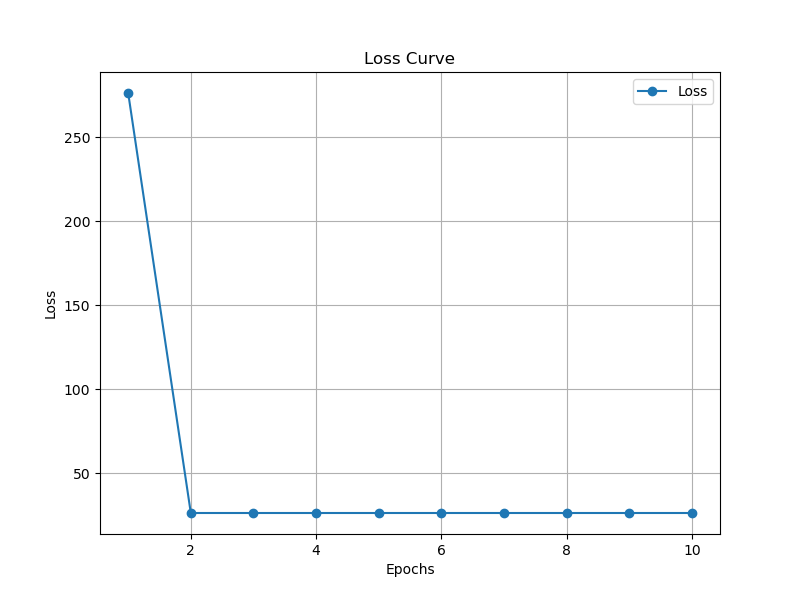
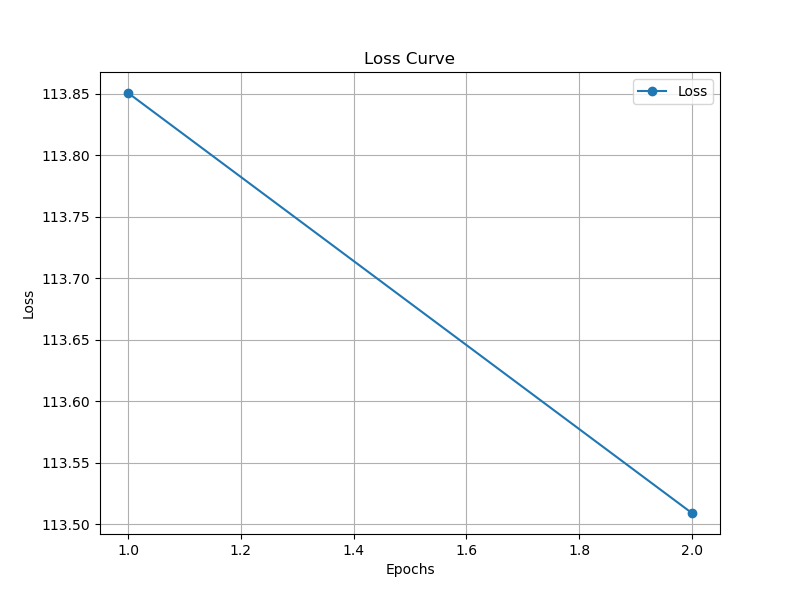
Added loss curve and confusion matrix for MNIST dataset.

diff --git a/MNIST.py b/MNIST.py
@@ -8,10 +8,10 @@ import torch.nn.functional as F
 from torchvision import datasets
 import torchvision.transforms as transforms
 import torchvision
-
-
 from CNN import LeNet5
-from utils import cross_entropy_loss, one_hot_y, compute_accuracy, softmax
+from utils import cross_entropy_loss, one_hot_y, compute_accuracy, softmax, plot_loss_curve
+from sklearn.metrics import confusion_matrix
+import seaborn as sns
 
 
 transform = transforms.Compose([transforms.ToTensor()])
@@ -45,16 +45,12 @@ train_labels_numpy = train_labels_tensor.numpy()
 test_images_numpy = test_images_tensor.numpy()
 test_labels_numpy = test_labels_tensor.numpy()
 
-test_images_numpy = test_images_numpy[:50]
-test_labels_numpy = test_labels_numpy[:50]
 
-train_images_numpy = train_images_numpy[:500]
-train_labels_numpy = train_labels_numpy[:500]
-
-epochs = 2
+epochs = 10
 model = LeNet5(in_channel=1, lr=1e-1)
 
-batch_size = 32
+batch_size = 300
+losses = []
 
 
 for epoch in range(epochs):
@@ -78,9 +74,6 @@ for epoch in range(epochs):
         loss = cross_entropy_loss(probabilities, Y)
         total_loss += loss
 
-        # Print loss for the current batch
-        print(f"  Batch {i + 1}/{num_batches}, Loss: {loss:.4f}")
-
         gradient = probabilities - Y
 
         model.backward(gradient)
@@ -92,10 +85,27 @@ for epoch in range(epochs):
         prob = model.forward(batch_images)
         x_pred = np.argmax(prob, axis=1)
         accuracy = compute_accuracy(x_pred, batch_labels)
-    print(f"Epoch : {epoch}, loss {total_loss/num_batches}")
+
+    print(f"Epoch : {epoch}, loss {total_loss/num_batches}, accuracy: {accuracy}")
+    losses.append(total_loss)
 
 
 prob = model.forward(test_images_numpy)
 x_pred = np.argmax(prob, axis=1)
-accuracy = compute_accuracy(x_pred, batch_labels)
+accuracy = compute_accuracy(x_pred, test_labels_numpy)
 print(f"Accuracy: {accuracy * 100:.2f}%")
+
+loss_plot = plot_loss_curve(epochs=len(losses), losses=losses)
+
+loss_plot.savefig('./plots/loss_curve_mnist.png')
+
+
+cm = confusion_matrix(test_labels_numpy, x_pred)
+
+plt.figure(figsize=(8, 6))
+sns.heatmap(cm, annot=True, fmt='d', cmap='Blues')
+plt.xlabel('Predicted Label')
+plt.ylabel('True Label')
+plt.title('Confusion Matrix')
+plt.savefig('./plots/confusion_mnist.png')
+

diff --git a/CNN.py b/CNN.py
@@ -3,6 +3,7 @@ from linear import TwoLayerNetwork
 import numpy as np
 from utils import cross_entropy_loss, softmax
 from relu import ReLU
+from maxpool import MaxPool
 
 
 class LeNet5:
@@ -13,6 +14,8 @@ class LeNet5:
         )
         self.relu1 = ReLU()
 
+        self.max_pool1 = MaxPool(2)
+
         # Second convolutional layer: 16 filters, 5x5 kernel
         self.conv2 = cnn(
             in_channel=6, out_channel=16, kernel_size=5, stride=1, padding=0
@@ -20,16 +23,22 @@ class LeNet5:
         self.relu2 = ReLU()
         self.fcrelu = ReLU()
 
-        self.fc1 = TwoLayerNetwork(9216, hidden_size=120, out_size=10)
+        self.max_pool2 = MaxPool(2)
+
+        self.fc1 = TwoLayerNetwork(256, hidden_size=120, out_size=10)
 
     def forward(self, x: np.ndarray):
         # Pass through the first convolutional layer
         x = self.conv1.forward(x)
         x = self.relu1.forward(x)
 
+        x = self.max_pool1.forward(x)
+
         # Pass through the second convolutional layer
         x = self.conv2.forward(x)
         x = self.relu2.forward(x)
+
+        x = self.max_pool2.forward(x)
 
         self.flattened_size = x.shape
 
@@ -40,7 +49,6 @@ class LeNet5:
         return fc1_out
 
     def backward(self, gradient):
-
         dz = self.fc1.backward(gradient, self.fcrelu)
         dz = np.array(
             [
@@ -53,8 +61,12 @@ class LeNet5:
             ]
         )
 
+        dz = self.max_pool2.backward(dz)
+
         dz = self.relu2.backward(dz)
         dz = self.conv2.backward(dz)
+
+        dz = self.max_pool1.backward(dz)
 
         dz = self.relu1.backward(dz)
         dz = self.conv1.backward(dz)

diff --git a/utils.py b/utils.py
@@ -1,4 +1,5 @@
 import numpy as np
+import matplotlib.pyplot as plt
 
 
 def softmax(a):
@@ -50,3 +51,13 @@ def compute_accuracy(x_pred, y):
 
     acc = correct / len(y)
     return acc
+
+def plot_loss_curve(epochs, losses):
+    fig, ax = plt.subplots(figsize=(8, 6))
+    ax.plot(range(1, epochs + 1), losses, marker='o', linestyle='-', label='Loss')
+    ax.set_xlabel('Epochs')
+    ax.set_ylabel('Loss')
+    ax.set_title('Loss Curve')
+    ax.grid(True)
+    ax.legend()
+    return fig
